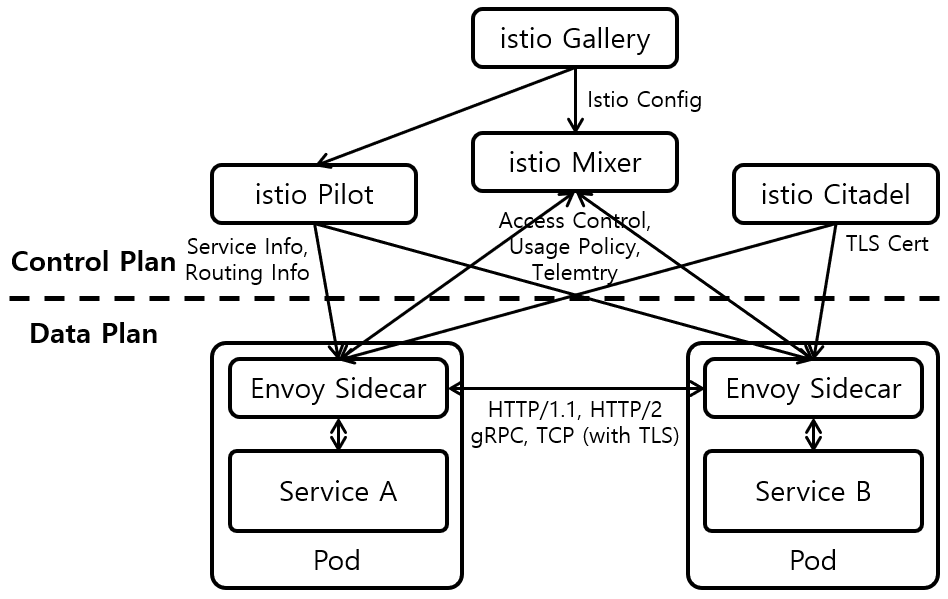
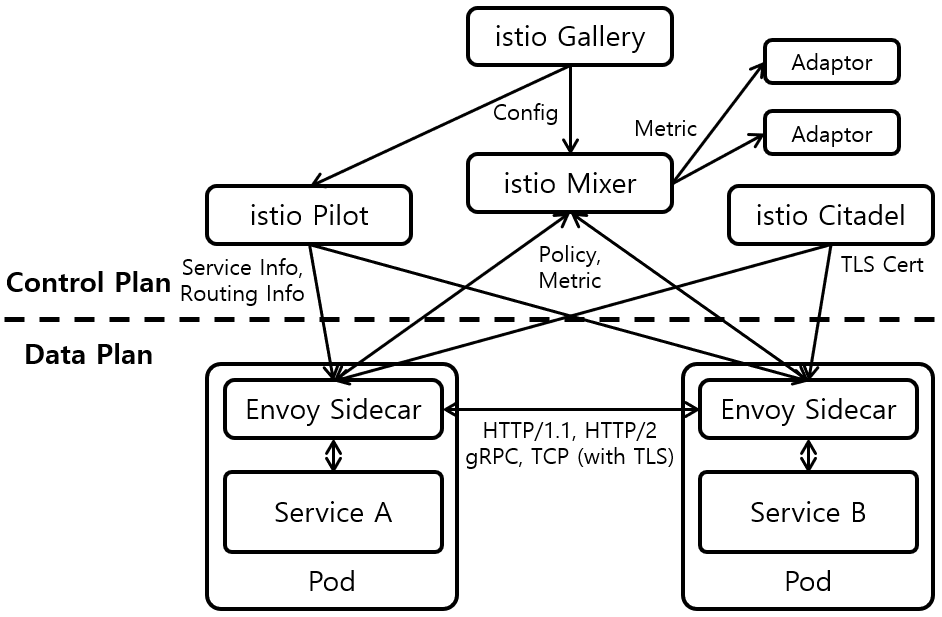
Update

Changed region(s): [[0.0, 0.0, 1.0, 0.9917], [0.2771, 0.8114, 0.431, 0.8414]]

diff --git a/_docs/theory_analysis/istio_Architecture.md b/_docs/theory_analysis/istio_Architecture.md
@@ -11,7 +11,14 @@ adsense: true
 
 ![[그림 1] istio Architecture]({{site.baseurl}}/images/theory_analysis/istio_Architecture/istio_Architecture.PNG){: width="600px"}
 
+[그림 1]은 istio Architecture를 나타내고 있다. istio는 istio를 제어하는 Control Plan과 Service 사이의 Data를 주고 받는 Data Plan으로 나눌수 있다.
+
+Control Plan은 Pliot, Mixer, Citadel, Mixer 4가지로 구성되어 있다. Pilot은 Service Discovery를 통해 얻은 Service 정보와 istio User가 설정한 Service Routing 정보를 Envoy에게 전달하여, Envoy가 적절한 Service에게 Packet을 Routing 하도록 도와준다. Mixer는 Service 사이의 Packet 허용 정책을 Envoy에게 전달하여, Service가 자신에게 허용된 다른 Service만 호출할 수 있도록 제한한다. 또한 Mixer는 Envoy를 통해 수집된 Metric 정보를 받아 Adaptor를 통해서 외부에 전달하는 역활도 수행한다. Citadel은 Envoy에게 인증서를 전달하여 Envoy 사이의 통신 보안을 담당한다. 마지막으로 Gallery는 Control Plan의 나머지 구성요소들을 설정하고 관리하는 역활을 수행한다.
+
+Data Plan에는 Envoy가 존재한다. Envoy는 모든 Service Pod에서 동작하며, Service가 전송한 모든 Packet을 받아 대신 전송하고, Service가 수신해야하는 모든 Packet을 대신 수신하여 Service에게 전달하는 **Sidecar** 역활을 수행한다. Envoy는 Control Plan의 구성요소들의 도움을 받아 Service Load Balancing, Circuit Breaker, Healt Check 등의 기능을 수행하여 Packet을 적절한 Service에게 전달하는 역활을 수행한다. 또한 Envoy가 전송/전달 받는 Packet의 Metric 정보 수집하고 Mixer에게 전달한다. Envoy 사이의 통신은 HTTP/1.1, HTTP/2, gRPC, TCP등의 다양한 Protocol을 지원한다.
+
 ### 2. 참조
 
 * Introducing Istio Service Mesh for Microservices
 * [https://istio.io/docs/concepts/what-is-istio/](https://istio.io/docs/concepts/what-is-istio/)
+* [https://stackoverflow.com/questions/48639660/difference-between-mixer-and-pilot-in-istio](https://stackoverflow.com/questions/48639660/difference-between-mixer-and-pilot-in-istio)
